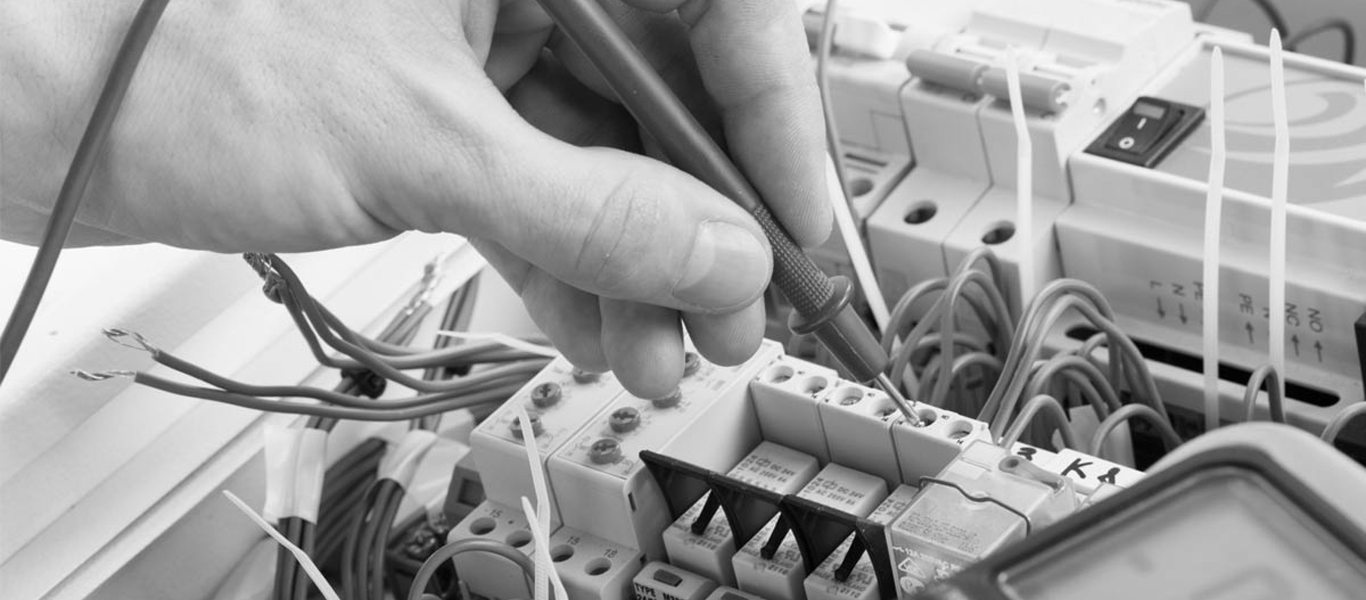
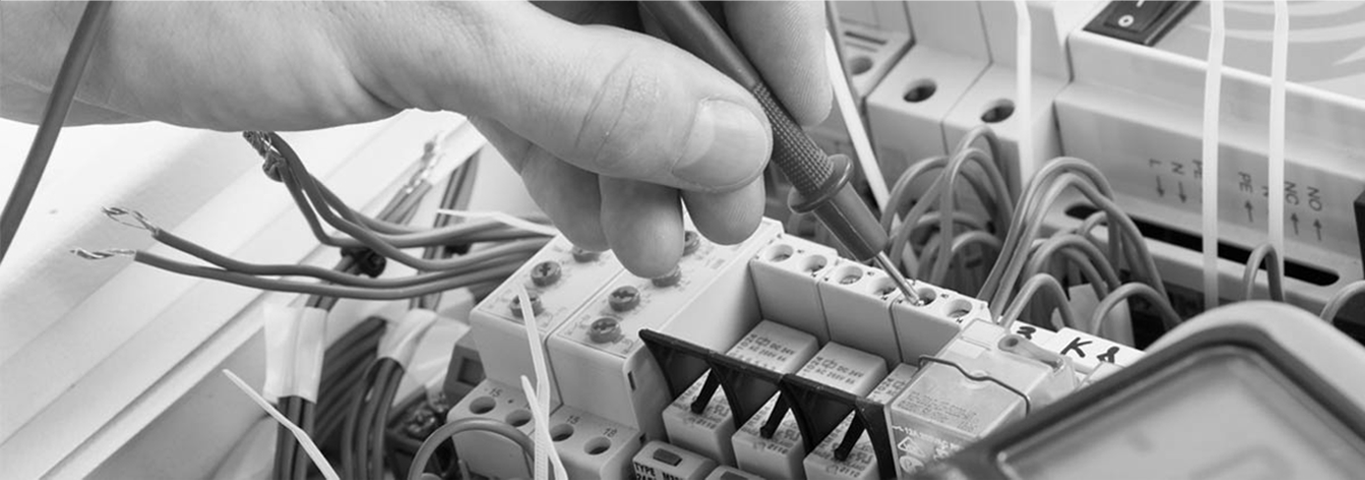
service section modified

diff --git a/src/components/service/service.js b/src/components/service/service.js
@@ -3,14 +3,15 @@ import React from "react";
 import "./service.css"
 import "./mobile-service.css"
 
-import servicepic from "../../image/service.png"
+import ServiceImage from "../../image/service.png"
 
 class Service extends React.Component{
     render(){
         return(
             <div className="service" id="service-page">
                 <div className="serviceBackground">
-                    <img alt="service background" src={servicepic}/>
+                    <img alt="service background" src={ServiceImage}/>
+                    <h1></h1>
                 </div>
                 
                 <div className="serviceName">

diff --git a/src/components/about/mobile-about.css b/src/components/about/mobile-about.css
@@ -24,14 +24,10 @@
 @media screen and (max-width: 320px) {
     .about .aboutUsInfo{
         top: 20%;
-        left: 5%;;
-        width: 90%;
-        height: 65%;
-        padding: 0;
     }
     .about h1{
         top: 50px;
-        left: 23%;
-        font-size: 24px
+        left: 20%;
+        font-size: 22px
     }
   }

diff --git a/src/components/service/mobile-service.css b/src/components/service/mobile-service.css
@@ -55,4 +55,11 @@
     .service .mainServices{
         top: 120px;
     }
+
+    .service .mainServices ul li{
+        border: 2px solid #464247;
+        line-height: 60px;
+        letter-spacing: 1px;
+    }
+
   }

diff --git a/src/components/header/mobile-header.css b/src/components/header/mobile-header.css
@@ -160,7 +160,7 @@
     }
 
     .header .headerHeart .leftside .leftsideInfo h2{
-        font-size: 26px;
+        font-size: 24px;
         line-height: 30px;
         padding-top: 0;
     }

diff --git a/src/components/service/service.css b/src/components/service/service.css
@@ -1,7 +1,7 @@
 .service{
     display: block;
     width: 100%;
-    height: 600px;
+    height: 484px;
     position: relative;
 }
 

diff --git a/src/helper_functions/axios_request.js b/src/helper_functions/axios_request.js
@@ -15,5 +15,5 @@ axios.get("http://localhost:3000/sendmail/", {params: {
 .catch(error => {
     console.log(error)
 
-})
+    })
 }
